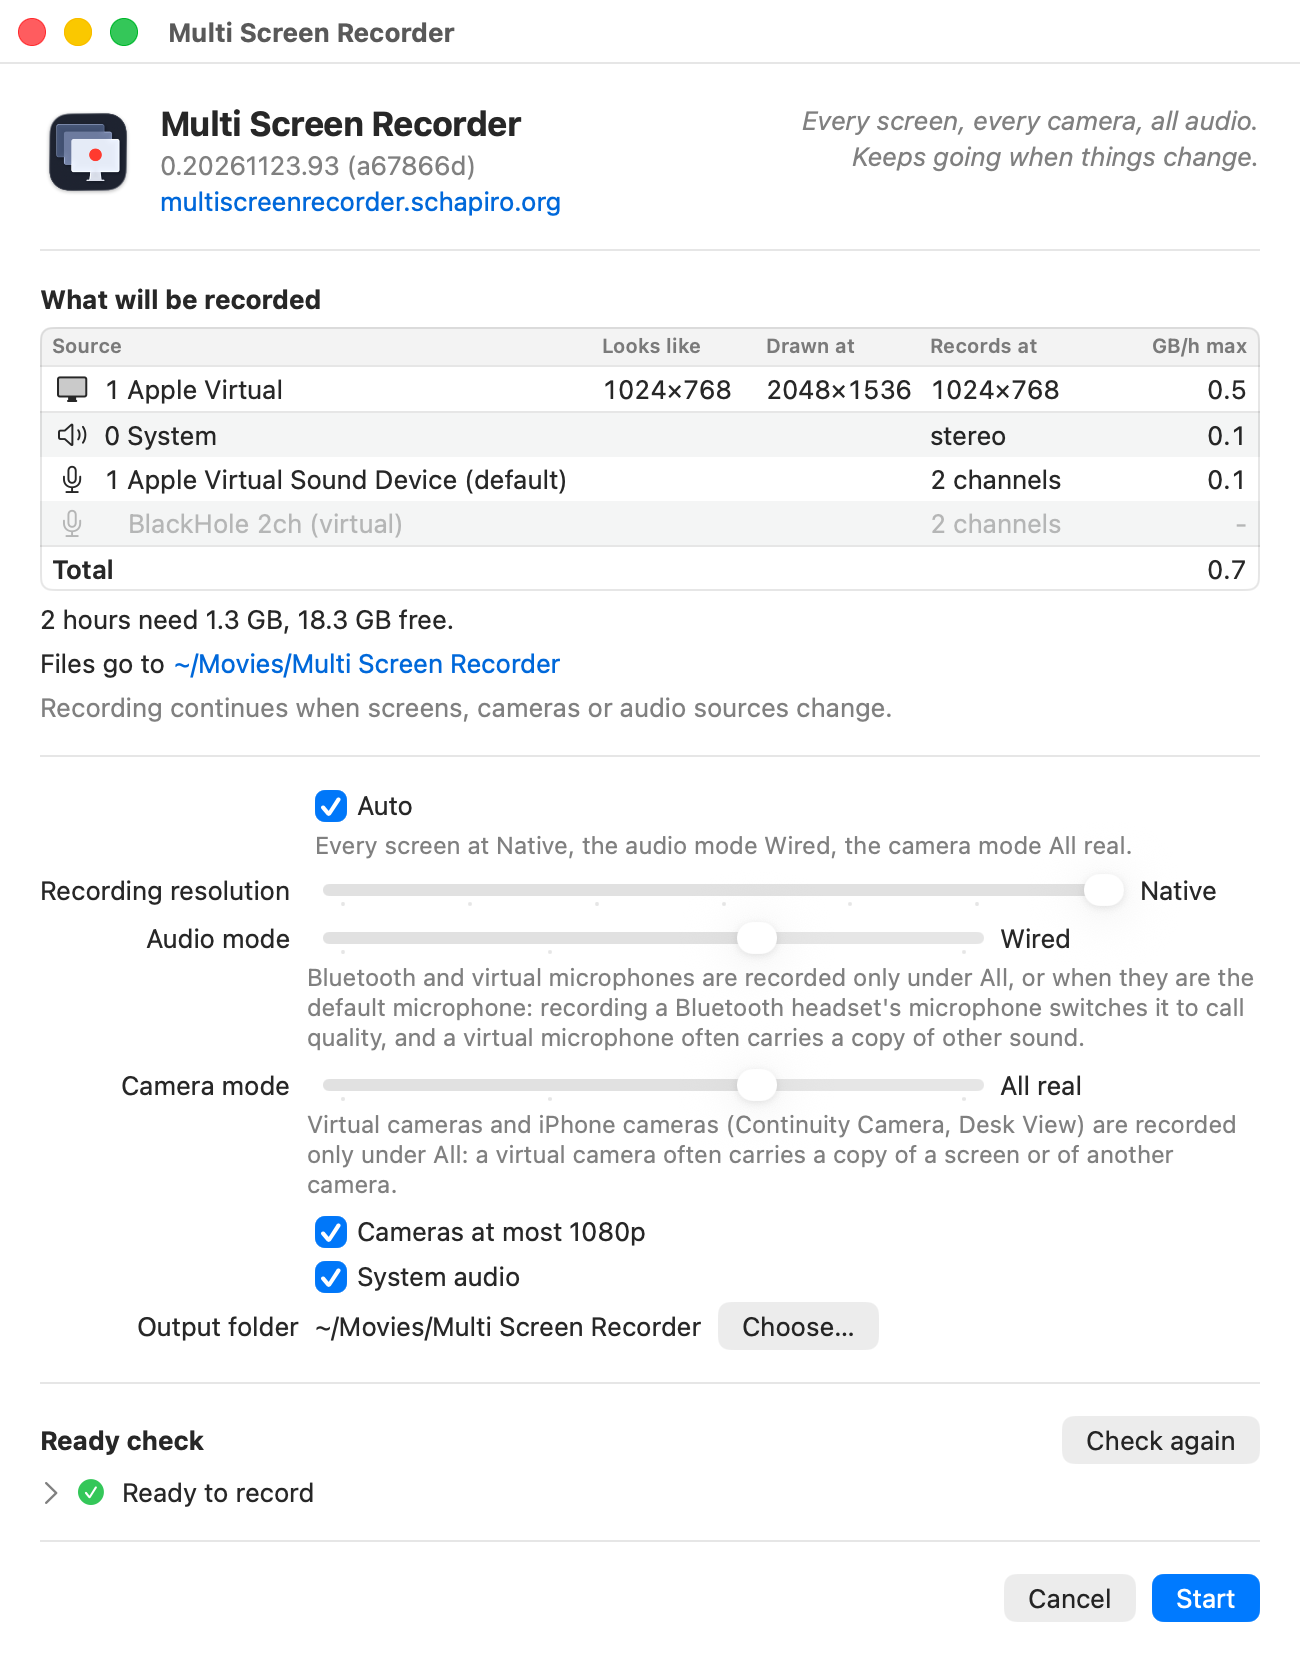
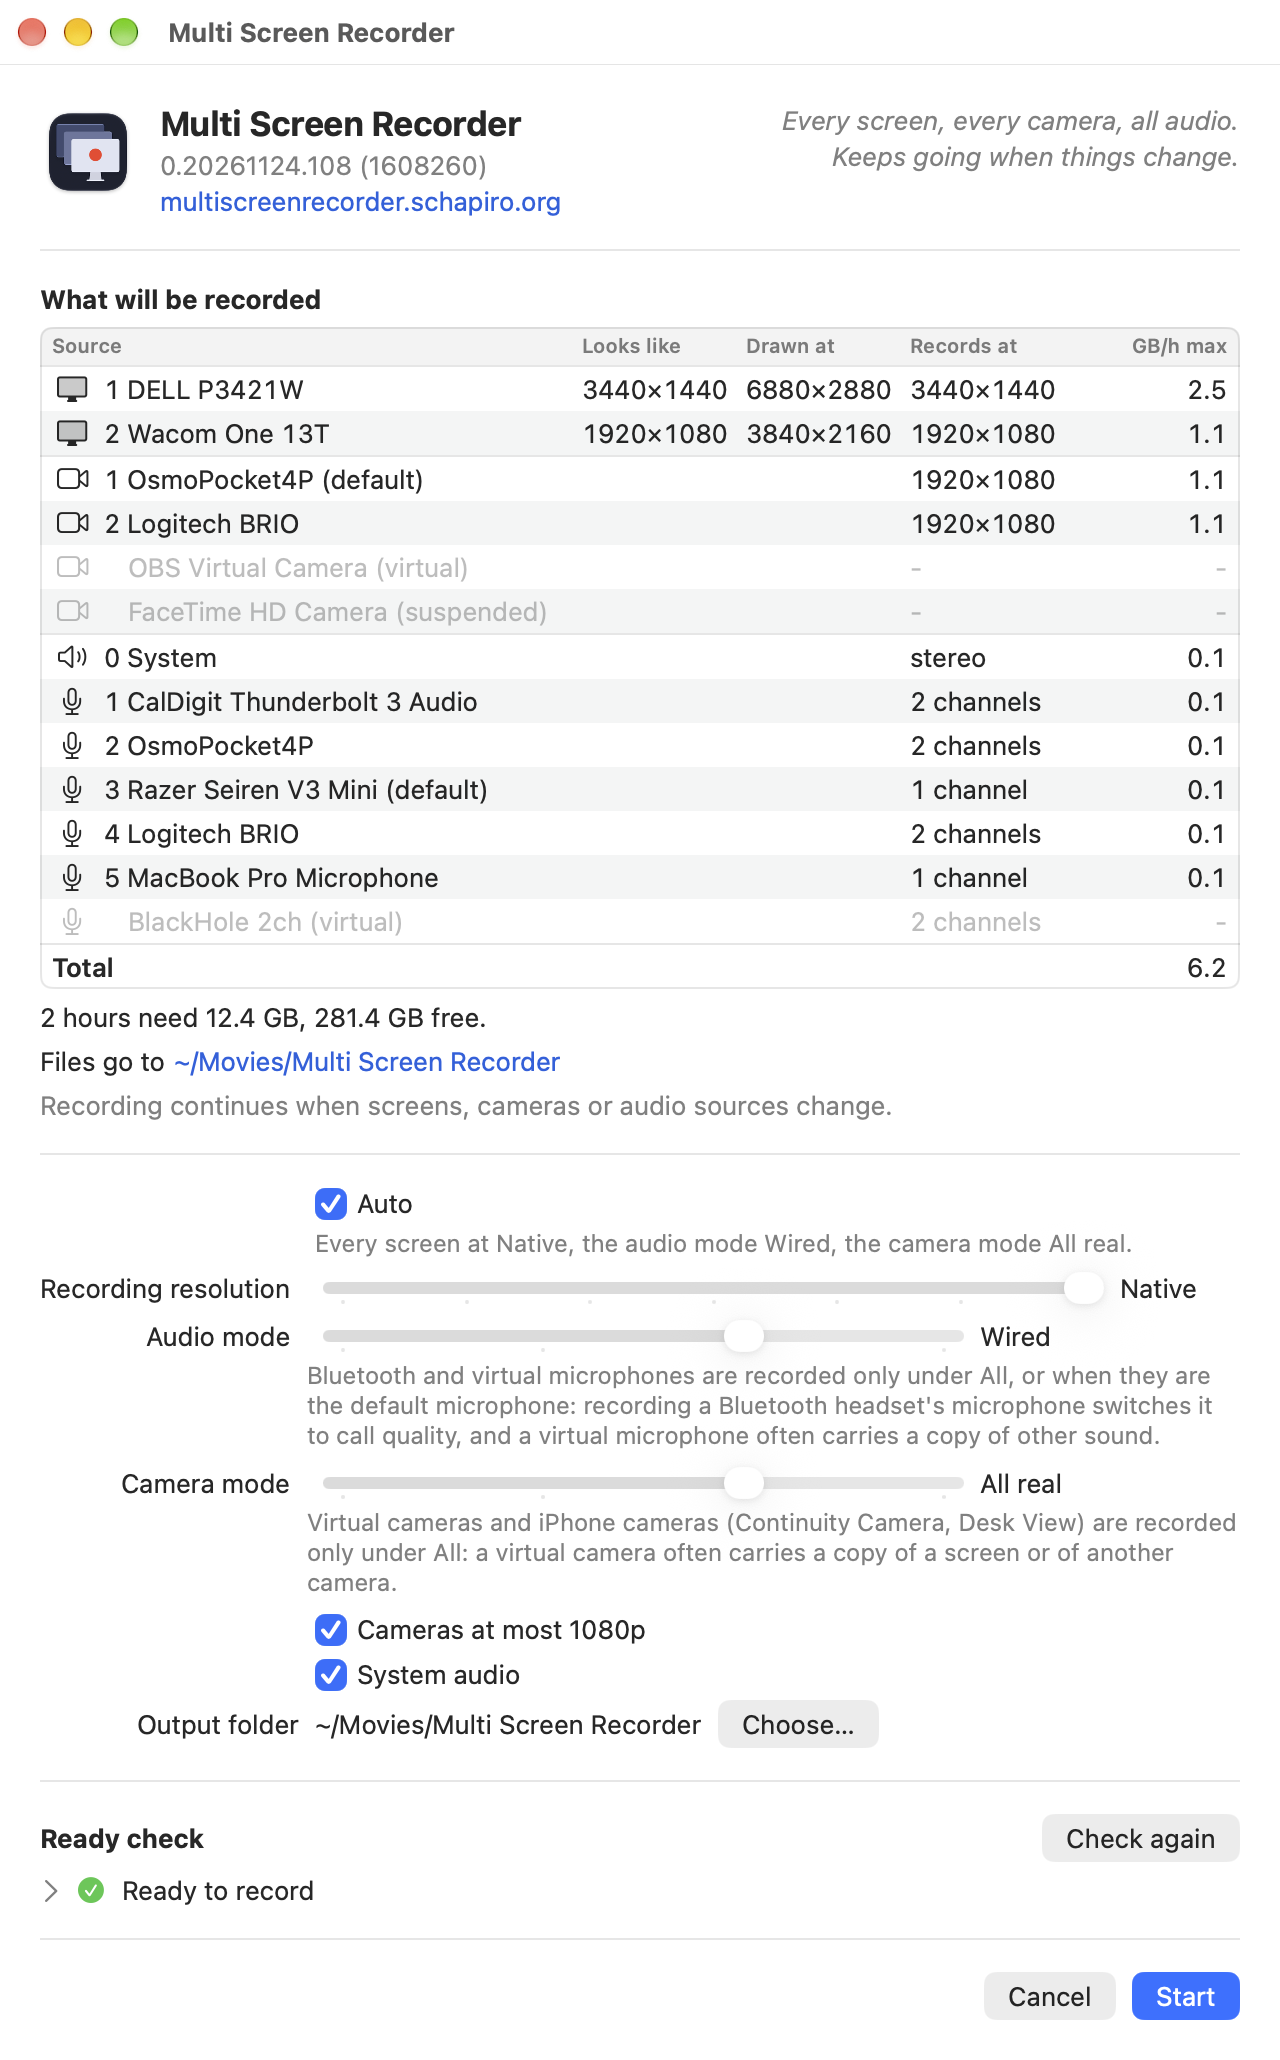
Homepage screenshots from 0.20261124.108, one file field in the problem report form (#31)
Ready: reviewed, pipeline green on 04650d7 (snapshot release `pr-31`).
The delta review closed every finding; the last commit only rewraps two
lines (empty word diff).

Housekeeping after PR #30, as the owner asked on 2026-11-24 ("do
housekeeping and screenshots and include the PR template fix there
too").

## What changes
- **Homepage screenshots from release 0.20261124.108**, taken on the
owner's Mac with `scripts/update-homepage-screenshots --this-mac --app
<the downloaded release>` (D82): the start window, the status window and
the recording folder, with real screens, cameras and microphones. The
status window was captured at 0:15, before the first measurement, so its
microphones read `not synced yet`.
- **The problem report form has one field for the recording's files**
(D83). The owner: "I'd merge the recording.json and recording.log fields
into one field that accepts all file uploads, for simplicity. And only
ask for a file upload". `recording-json` and `recording-log` become one
optional field `files`, "Files from the recording folder". The app's
link fills only `version` and `what-happened`, so the app is unchanged.
The test that checks the form's ids, README and
`docs/design/recorder.md` are updated. The form's privacy note now says
to edit the files in TextEdit before dragging them in, as an uploaded
file cannot be edited.

## Verified
- `scripts/test` passes locally on 8f5c5ed and again after the review
fixes.
[…]

diff --git a/Tests/RecorderLogicTests/ProblemReportTests.swift b/Tests/RecorderLogicTests/ProblemReportTests.swift
@@ -27,7 +27,7 @@ import Testing
     /// The form ids the link fills are the ones `.github/ISSUE_TEMPLATE/problem-report.yml` has.
     @Test func theFieldsExistInTheForm() throws {
         let form = try repositoryFile(".github/ISSUE_TEMPLATE/problem-report.yml")
-        for id in [ProblemReport.versionField, ProblemReport.whatHappenedField, "recording-json", "recording-log"] {
+        for id in [ProblemReport.versionField, ProblemReport.whatHappenedField, "files"] {
             #expect(form.contains("id: \(id)\n"), "\(id)")
         }
         #expect(form.contains("title: \"\(ProblemReport.title)\""))

diff --git a/README.md b/README.md
@@ -181,14 +181,14 @@ the files to attach (`Attach:`). Otherwise use the
 (a GitHub account is needed). It asks for the output of `msr version`
 (see "Command line" below; About Multi Screen Recorder in the app's
 menu shows the same), what happened and what you expected, and the
-recording's `recording.json`. Please also drag the recording's
-`recording.json` and `recording.log` from its recording folder into the
-issue: `recording.log` is the recording log, every event and problem of
-the recording with the full error macOS gave, and what the app did and
-read meanwhile, one line each. Issues are public: the form says what
-`recording.json` contains, and `recording.log` names the same screens,
-cameras and audio inputs; a camera's name can hold a person's name (a
-Continuity Camera's often does), and `cameraUniqueID` identifies the
+recording's files: drag its `recording.json` and `recording.log` from
+its recording folder into the issue: `recording.log` is the recording
+log, every event and problem of the recording with the full error
+macOS gave, and what the app did and read meanwhile, one line each.
+Issues are public: the form says what `recording.json` contains, and
+`recording.log` names the same screens, cameras and audio inputs; a
+camera's name can hold a person's name (a Continuity Camera's often
+does), and `cameraUniqueID` identifies the
 camera. Open both in TextEdit and remove what you don't want to share.
 The recordings themselves show what the cameras saw; attach none. Nothing is sent automatically: you see the files and attach
 them yourself.

diff --git a/docs/decisions.md b/docs/decisions.md
@@ -2887,3 +2887,22 @@ architect's reading.
   microphones; the first run asks for Automation and possibly Screen
   Recording for the terminal.
 - **Evidence:** backlog item 48; [homepage/README.md](../homepage/README.md).
+
+## D83: The problem report form has one field for the recording's files (2026-11-24)
+
+- **Status:** in force. Amends D64's `recording-log` field and the
+  `recording-json` field from the first tester release (PR #13, no
+  entry).
+- **Context:** The owner, 2026-11-24: "I'd merge the recording.json
+  and recording.log fields into one field that accepts all file
+  uploads, for simplicity. And only ask for a file upload".
+- **Decision:** `problem-report.yml` replaces its `recording-json` and
+  `recording-log` fields with one optional field `files`, "Files from
+  the recording folder", asking to drag `recording.json` and
+  `recording.log` into it; nothing asks to paste a file's content. It
+  stays a text field, the architect's reading: GitHub's issue forms
+  take dropped files in a text field, and accept a `.json` file
+  [ASSUMED]; D60 found that GitHub refuses some file types.
+- **Consequences:** None for the app: its link fills only `version` and
+  `what-happened`.
+- **Evidence:** [design/recorder.md](design/recorder.md).

diff --git a/docs/design/recorder.md b/docs/design/recorder.md
@@ -1145,10 +1145,9 @@ checked, reported or rewritten at the next start (D47).
   characters (*data*; GitHub's limit is about 8 kB [ASSUMED]), then `…
   and <n> more, in recording.log and recording.json.`; and it shows
   that recording's `recording.json` and `recording.log` in Finder for
-  the person to drag into the issue (the form's `recording-json` and
-  `recording-log` fields). Errors as in the crash report offer:
-  "Cannot offer to report the last recording", or the address when the
-  browser cannot be opened. `msr record` whose summary says it exits 3
+  the person to drag into the issue (the form's `files` field).
+  Errors as in the crash report offer: "Cannot offer to report the
+  last recording", or the address when the browser cannot be opened. `msr record` whose summary says it exits 3
   ends it, also with `--quiet`, with `Report it: <the same link,
   built from the summary's lines>` and `Attach: <recording
   folder>/recording.log and recording.json`. Both the crash report and
